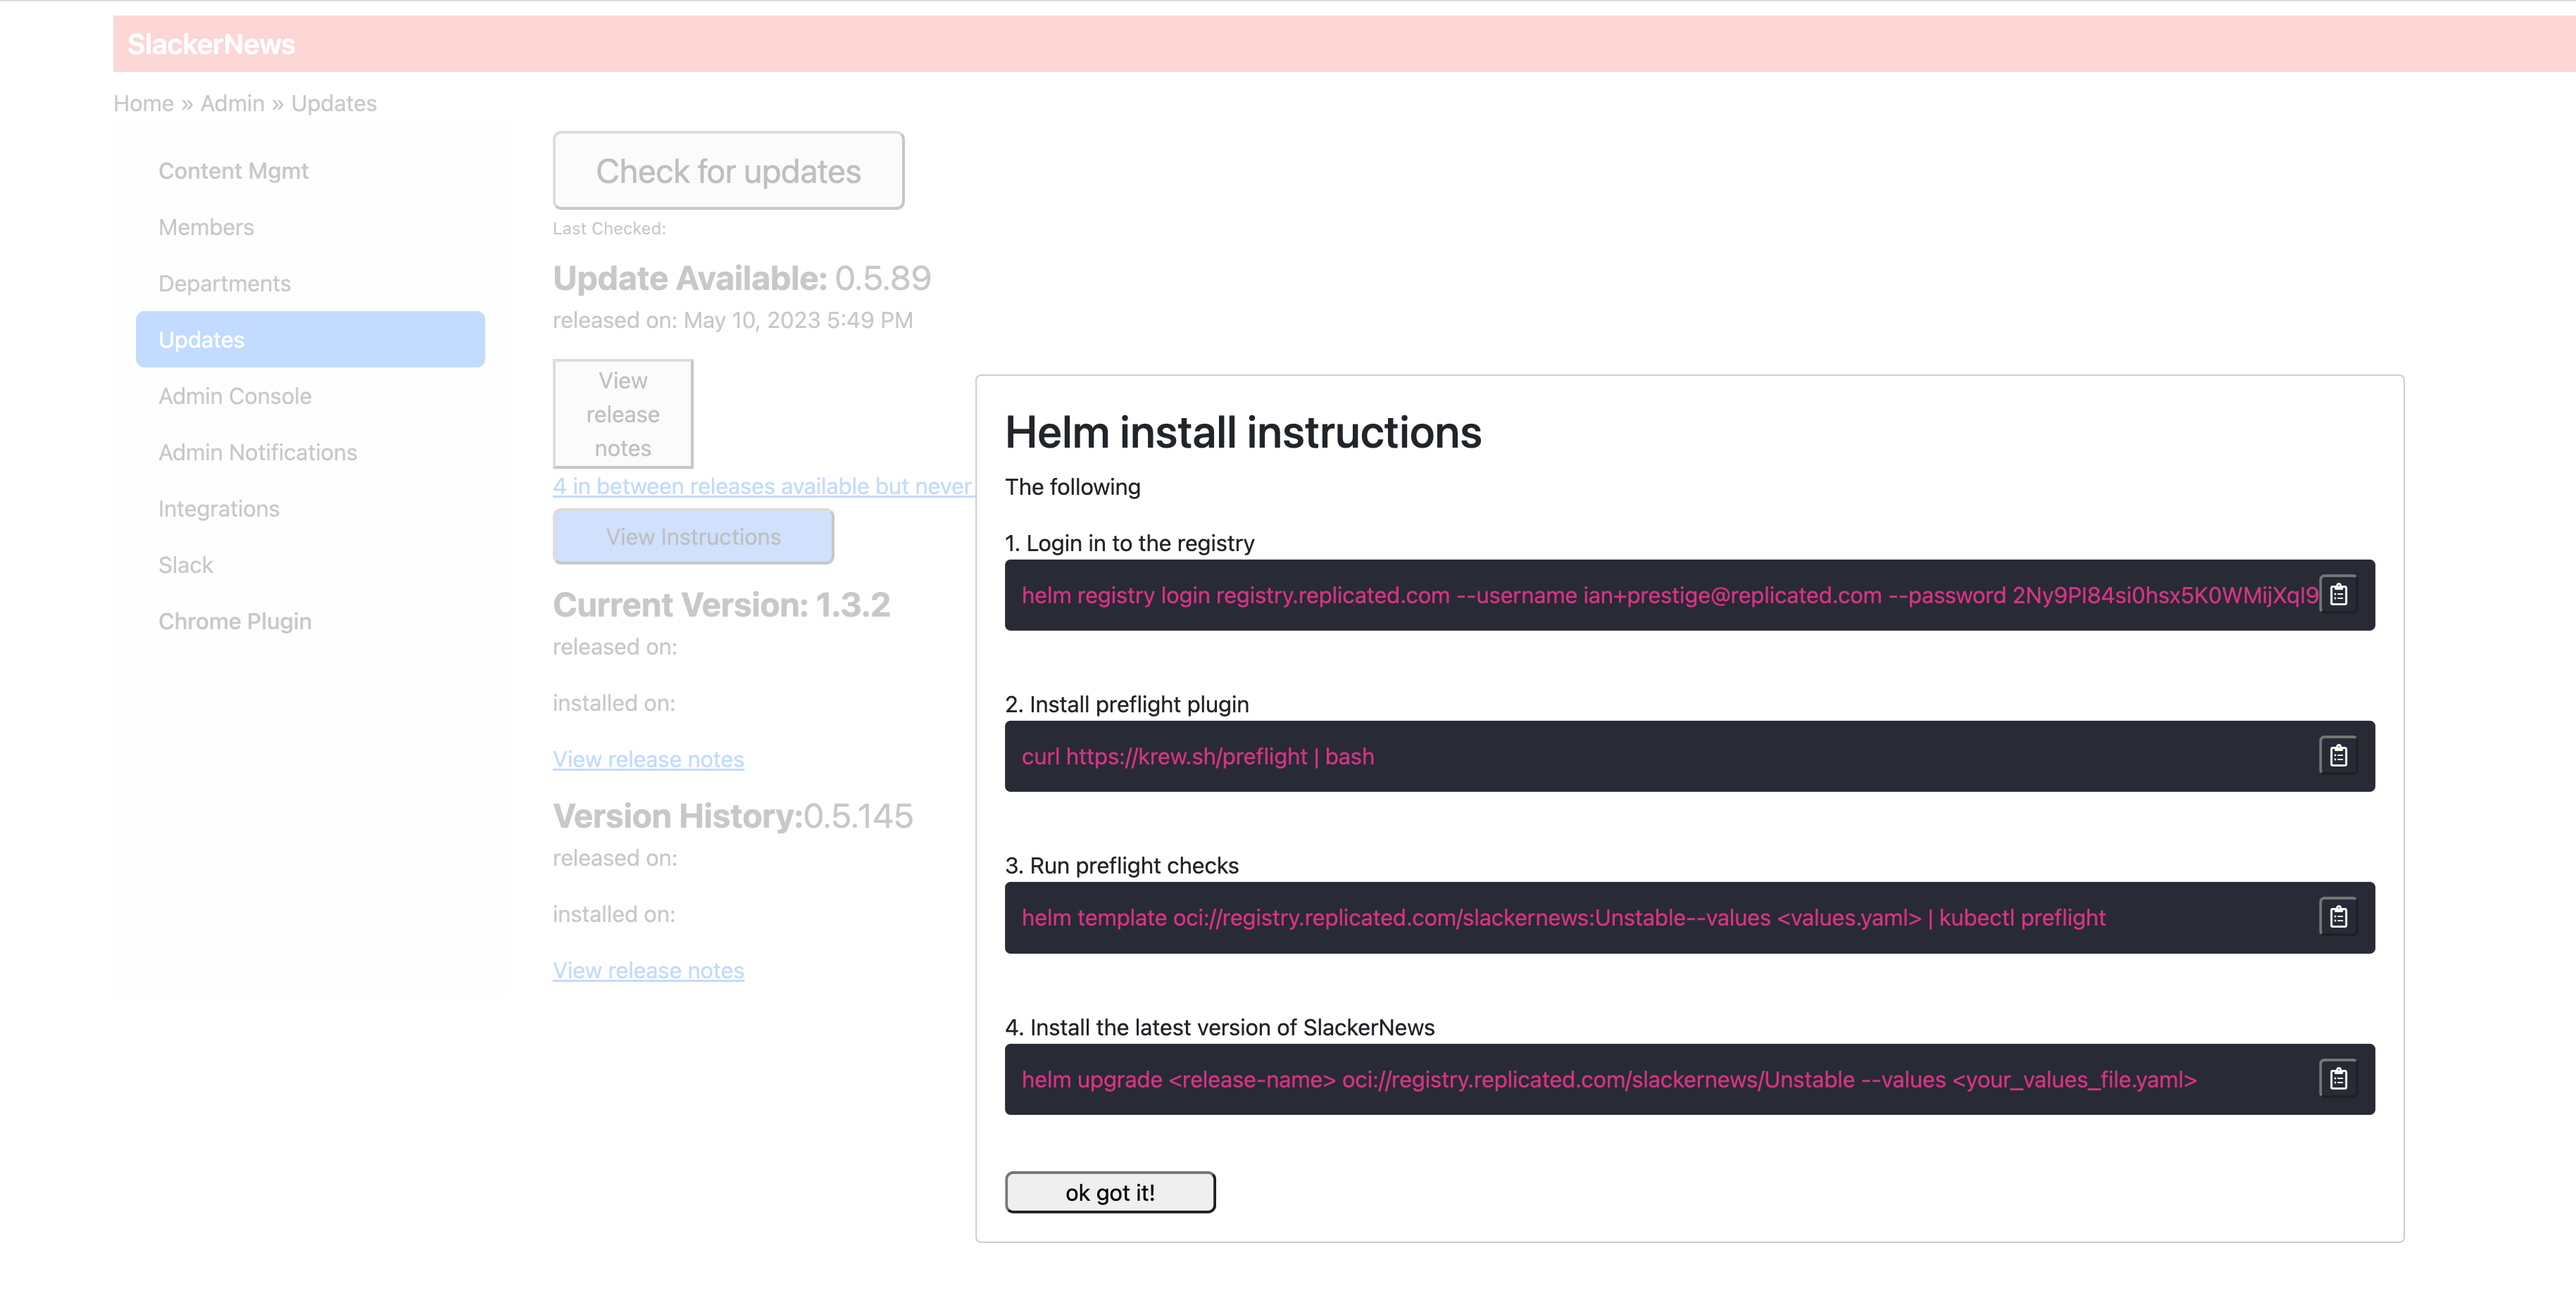
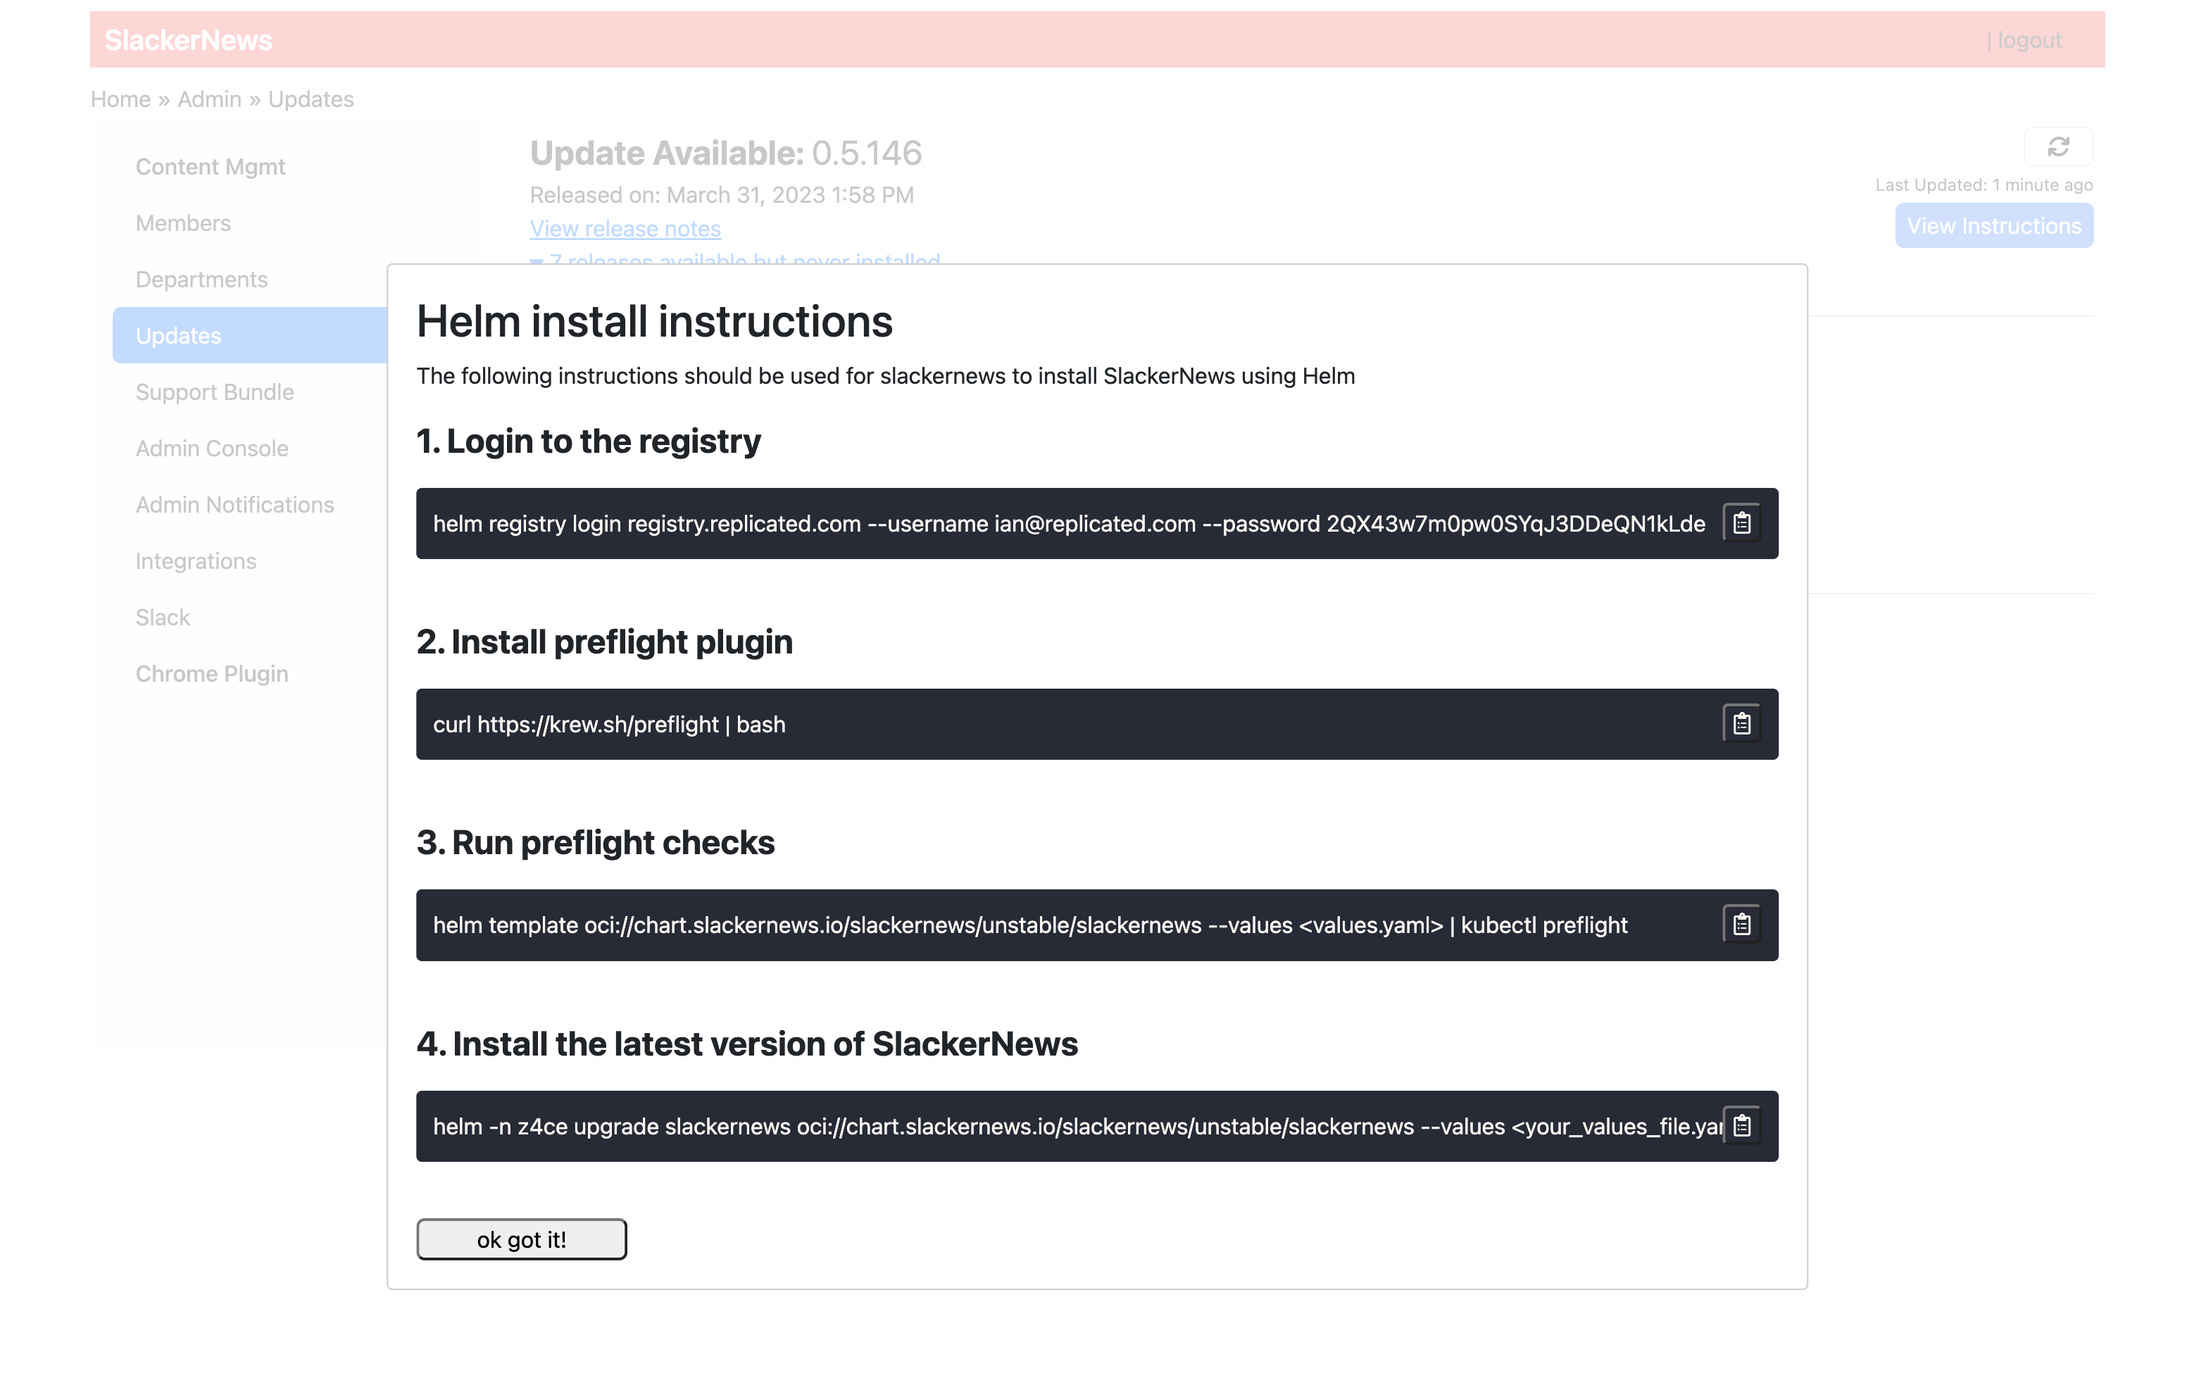
edits

diff --git a/docs/reference/replicated-sdk-apis.md b/docs/reference/replicated-sdk-apis.md
@@ -217,9 +217,12 @@ The `api/v1/app/updates` endpoint returns details about new releases that are av
 
 Additionally, to make it easier for users to upgrade to new versions of your application, you could provide customer-specific upgrade instructions in your admin console by injecting values returned by the `/api/v1/license/info` and `/api/vi/app/info` endpoints. 
 
-The following example shows how you could include a page in your application's admin console that lists available updates and also provides customer-specific upgrade instructions:  
+The following examples show how you could include a page in your application's admin console that lists available updates and also provides customer-specific upgrade instructions:  
 
-![a user interface showing a list of available releases and a dialog with helm upgrade instructions](/images/slackernews-update-instructions.png)
+![a user interface showing a list of available releases](/images/slackernews-update-page.png)
+[View a larger version of this image](/images/slackernews-update-page.png)
+
+![user-specific application upgrade instructions displayed in a dialog](/images/slackernews-update-instructions.png)
 [View a larger version of this image](/images/slackernews-update-instructions.png)
 
 To use the SDK API to check for available application updates and provide customer-specific upgrade instructions:
@@ -243,7 +246,7 @@ To use the SDK API to check for available application updates and provide custom
     ]
     ```
 
-1. For each available release, add logic that displays the required upgrade commands with customer-specific values. To upgrade, users must first run `helm registry login` to authenticate to the Replicated registry and pull your chart. Then, they run `helm upgrade`. 
+1. For each available release, add logic that displays the required upgrade commands with customer-specific values. To upgrade, users must first run `helm registry login` to authenticate to the Replicated registry. Then, they can run `helm upgrade`.
 
   Complete the following steps to inject customer-specific values into the `helm registry login` and `helm upgrade` commands:
 
